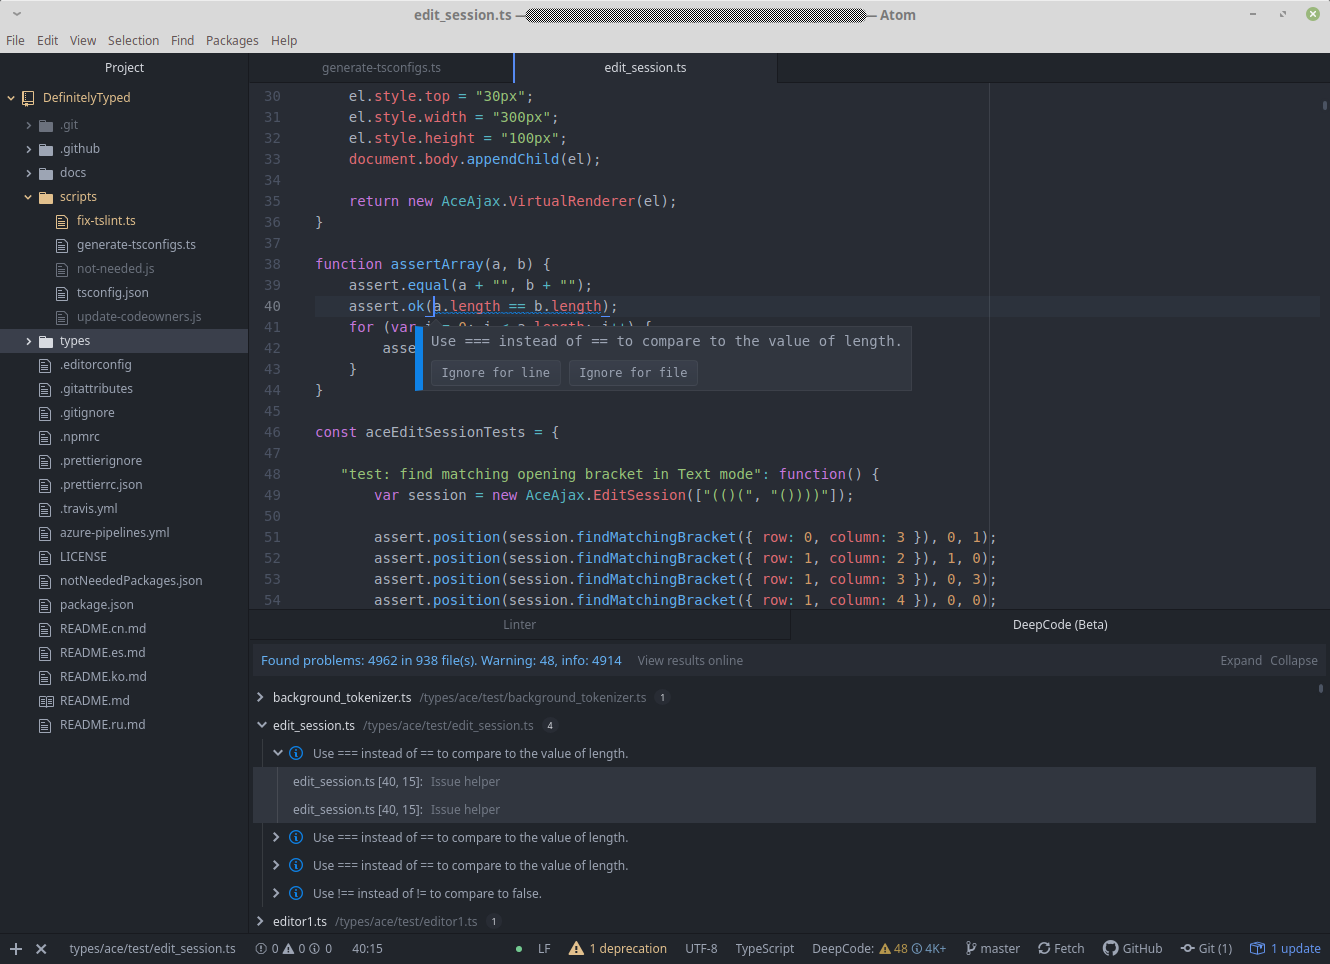
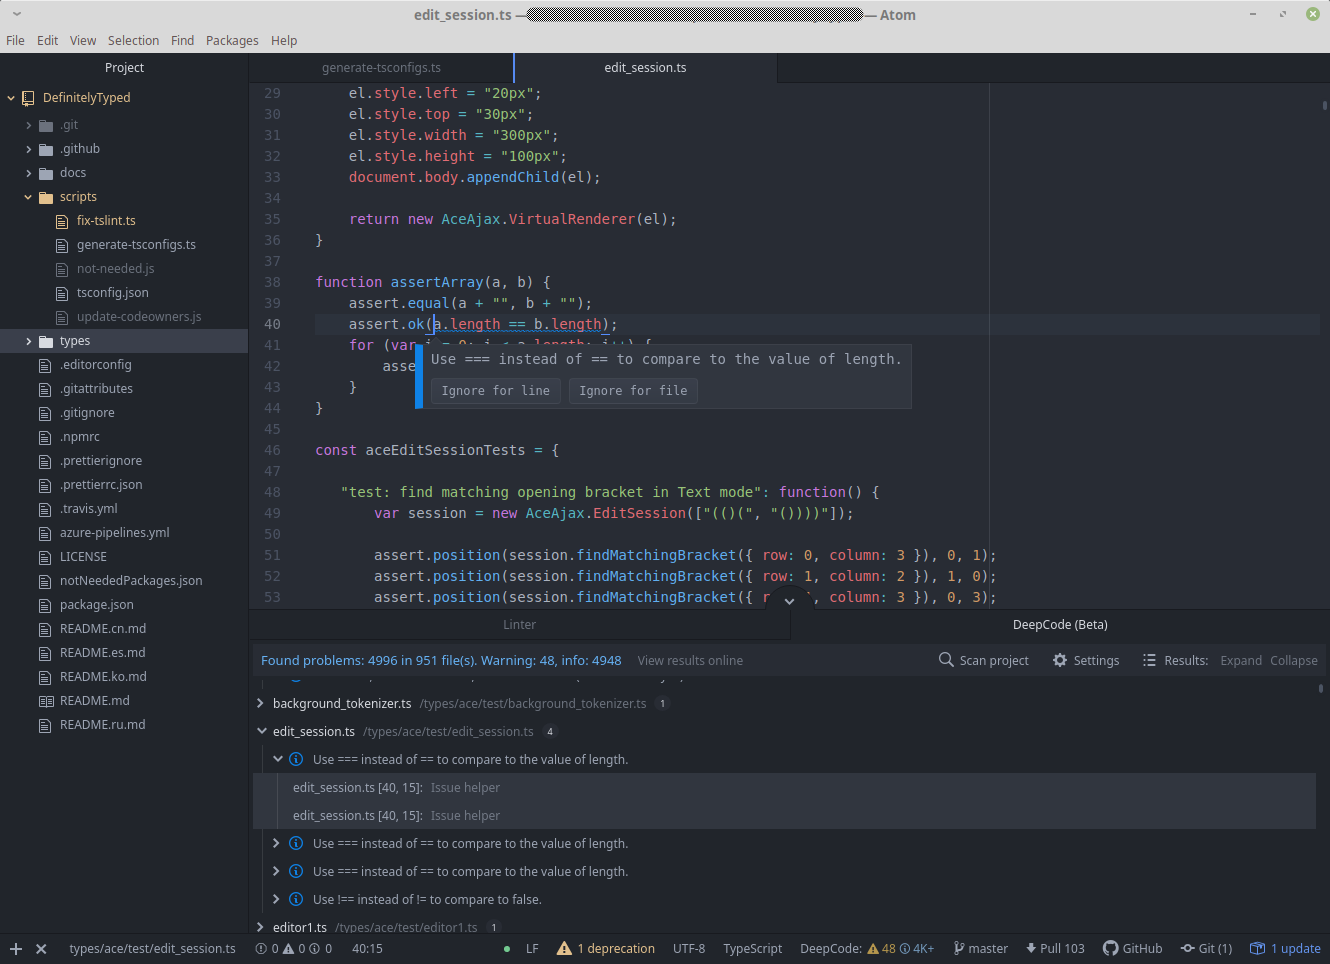
Refactored status-bar and Problem Panel

diff --git a/lib/views/ProblemsPanel.js b/lib/views/ProblemsPanel.js
@@ -10,6 +10,7 @@ import { ProblemsRow } from './ProblemsRow';
 
 import { PLUGIN } from '../constants/common';
 import { STORE_KEYS } from '../constants/store';
+import { PluginManager } from '../modules/PluginManager';
 
 export class ProblemsPanel {
 
@@ -81,18 +82,57 @@ export class ProblemsPanel {
       const right = document.createElement('div');
       right.classList.add('right');
 
-        const linkExpand = document.createElement('a');
-        linkExpand.classList.add('expand');
-        linkExpand.innerText = 'Expand';
-        linkExpand.onclick = () => this.onClickExpandAll();
+        const pluginButtons = document.createElement('div');
+        pluginButtons.classList.add('plugin-buttons');
 
-        const linkCollapse = document.createElement('a');
-        linkCollapse.classList.add('collapse');
-        linkCollapse.innerText = 'Collapse';
-        linkCollapse.onclick = () => this.onClickCollapseAll();
+          const btnScan = document.createElement('div');
+          btnScan.classList.add('pm-btn');
+          btnScan.innerHTML = `
+            <span class="icon icon-search"></span>
+            <span>Scan project</span>
+          `;
+          btnScan.title = 'Re-scan all folders of the project';
+          btnScan.onclick = () => PluginManager.scanProject();
 
-      right.appendChild(linkExpand);
-      right.appendChild(linkCollapse);
+          const btnSettings = document.createElement('div');
+          btnSettings.classList.add('pm-btn');
+          btnSettings.innerHTML = `
+            <span class="icon icon-gear"></span>
+            <span>Settings</span>
+          `;
+          btnSettings.title = 'Open plugin settings';
+          btnSettings.onclick = () => PluginManager.openSettings();
+
+        pluginButtons.appendChild(btnScan);
+        pluginButtons.appendChild(btnSettings);
+
+        const treeSettings = document.createElement('div');
+        treeSettings.classList.add('tree-settings');
+
+          const treeSettingsIcon = document.createElement('div');
+          treeSettingsIcon.classList.add('icon', 'icon-list-unordered');
+
+          const treeSettingsTitle = document.createElement('div');
+          treeSettingsTitle.classList.add('title');
+          treeSettingsTitle.innerText = 'Results:';
+
+          const linkExpand = document.createElement('a');
+          linkExpand.classList.add('expand');
+          linkExpand.innerText = 'Expand';
+          linkExpand.onclick = () => this.onClickExpandAll();
+
+          const linkCollapse = document.createElement('a');
+          linkCollapse.classList.add('collapse');
+          linkCollapse.innerText = 'Collapse';
+          linkCollapse.onclick = () => this.onClickCollapseAll();
+
+        treeSettings.appendChild(treeSettingsIcon);
+        treeSettings.appendChild(treeSettingsTitle);
+        treeSettings.appendChild(linkExpand);
+        treeSettings.appendChild(linkCollapse);
+
+      right.appendChild(pluginButtons);
+      right.appendChild(treeSettings);
 
     tableHead.appendChild(left);
     tableHead.appendChild(right);

diff --git a/lib/views/StatusBarButton.js b/lib/views/StatusBarButton.js
@@ -7,18 +7,17 @@ import { PLUGIN } from '../constants/common';
 import { STORE_KEYS } from '../constants/store';
 import { SEVERITY, SEVERITY_ICONS, SEVERITY_CLASSES } from '../constants/analysis';
 
-import { StatusBarMenu } from './StatusBarMenu';
 import { ScanningProgress } from './ScanningProgress';
 import { UploadProgress } from './UploadProgress';
 import { AnalyzingProgress } from './AnalyzingProgress';
 import { ComposingProgress } from './ComposingProgress';
+import { PluginManager } from '../modules/PluginManager';
 
 export class StatusBarButton {
 
   refs = {
     statusButton: null,
     statusBarTile: null,
-    statusBarMenu: null,
     scanningProgress: null,
     uploadProgress: null,
     analyzingProgress: null,
@@ -27,10 +26,6 @@ export class StatusBarButton {
 
   listeners = {
     statusButton: null,
-  };
-
-  state = {
-    isMenuOpened: false,
   };
 
   init(statusBar) {
@@ -42,7 +37,6 @@ export class StatusBarButton {
       priority: 0,
     });
 
-    this.refs.statusBarMenu = new StatusBarMenu(statusButton, () => this.onHideMenu());
     this.refs.scanningProgress = new ScanningProgress(statusButton);
     this.refs.uploadProgress = new UploadProgress(statusButton);
     this.refs.analyzingProgress = new AnalyzingProgress(statusButton);
@@ -125,18 +119,7 @@ export class StatusBarButton {
   // Callbacks --------------------------------------------------------------------------------------------------------
 
   onClickButton() {
-    if (this.state.isMenuOpened) {
-      this.refs.statusBarMenu.hide();
-      this.state.isMenuOpened = false;
-
-    } else {
-      this.refs.statusBarMenu.show();
-      this.state.isMenuOpened = true;
-    }
-  }
-
-  onHideMenu() {
-    this.state.isMenuOpened = false;
+    PluginManager.openProblemsPanel();
   }
 
   // Store Subscriptions ----------------------------------------------------------------------------------------------

diff --git a/styles/deepcode.less b/styles/deepcode.less
@@ -53,6 +53,12 @@
   }
 }
 
+.ellipsis() {
+  white-space: nowrap;
+  overflow: hidden;
+  text-overflow: ellipsis;
+}
+
 .dc-status {
   a.count {
     margin-left: 2px;
@@ -90,17 +96,20 @@
     align-items: center;
     background-color: @light-background;
     height: 32px;
-    padding: 4px 8px;
+    padding: 0px 8px;
 
     .left {
       display: flex;
       align-items: center;
+      height: 100%;
 
       .title {
+        .ellipsis();
         color: @title-color;
         font-size: 13px;
       }
       .analysis-url {
+        .ellipsis();
         color: @text-color-subtle;
         margin-left: 16px;
         &:hover {
@@ -112,12 +121,51 @@
       display: flex;
       justify-content: flex-end;
       align-items: center;
-      a.collapse,
-      a.expand {
-        color: @text-color-subtle;
-        margin-left: 8px;
-        &:hover {
-          color: @text-color;
+      height: 100%;
+
+      .icon {
+        font-size: 10px;
+      }
+
+      .plugin-buttons {
+        display: flex;
+        justify-content: flex-end;
+        align-items: stretch;
+        height: 100%;
+
+        .pm-btn {
+          .ellipsis();
+          display: flex;
+          justify-content: flex-end;
+          align-items: center;
+          padding: 0px 12px;
+          cursor: pointer;
+          height: 100%;
+
+          &:hover {
+            background-color: @tool-panel-background-color;
+            color: @text-color-highlight;
+          }
+        }
+      }
+
+      .tree-settings {
+        display: flex;
+        justify-content: flex-end;
+        align-items: center;
+        margin-left: 12px;
+
+        .title {
+          .ellipsis();
+          margin-right: 4px;
+        }
+        a.collapse,
+        a.expand {
+          color: @text-color-subtle;
+          margin-left: 8px;
+          &:hover {
+            color: @text-color;
+          }
         }
       }
     }

diff --git a/lib/deepcode.js b/lib/deepcode.js
@@ -57,6 +57,7 @@ export default {
       // Register command that toggles this view
       atom.commands.add('atom-workspace', {
         [COMMANDS.openPanel]: () => PluginManager.openProblemsPanel(),
+        [COMMANDS.resetPlugin]: () => PluginManager.resetPlugin(),
       }),
 
       // Destroy any ProblemsPanel when the package is deactivated
@@ -75,10 +76,7 @@ export default {
 
       // observe config changes: 'sessionToken'
       atom.config.observe(`${PLUGIN.name}.sessionToken`, (sessionToken) => {
-        const accountType = Store.get(STORE_KEYS.accountType);
-        if (sessionToken === '' && accountType !== '') {
-          PluginManager.resetPlugin();
-        }
+        Store.set(STORE_KEYS.sessionToken, sessionToken);
       }),
 
       // observe config changes: 'serviceURL'

diff --git a/lib/config.js b/lib/config.js
@@ -44,7 +44,7 @@ export const config = {
 		type: 'string',
 		default: '',
 		title: 'Session token',
-		description: 'Clear this session token to reset plugin',
+		description: 'Clear this session token to make re-login',
 		order: 6,
 	},
 };

diff --git a/lib/constants/commands.js b/lib/constants/commands.js
@@ -1,6 +1,6 @@
 'use babel';
 
 export const COMMANDS = {
-  start: 'deepcode:start-analysis',
   openPanel: 'deepcode:open-problems-panel',
+  resetPlugin: 'deepcode:reset-plugin',
 };

diff --git a/README.md b/README.md
@@ -28,31 +28,3 @@ DeepCode extension analyses code on saving files:
 Inspect all found issues using "Problems" tab and syntax highlight:
 
 ![deepcode problem](images/problem.png)
-
-# Available commands from status bar button
-
-### Open panel
-
-Opens panel with list of problems and makes request for checking analysis status.
-If there is no created bundle and changed files are present, it starts creating bundle process.
-
-### Scan project
-
-Makes full re-scan of project and marks all files as changed,
-so they will be uploaded to server and analyzed.
-
-This command always creates a new bundle.
-
-### Settings
-
-Opens settings view for package.
-
-### Reset plugin
-
-Removes all stored info about plugin: login, project data. It behaves like you install the plugin
-at first time: you will be asked for login, confirmation folders and so on.
-
-Can be useful for development purposes or for changing settings.
-
-> Please, note that this command doesn't reset any global package settings that are available
-> on settings view (menu "Packages" -> "Settings view" -> "Manage packages" -> "DeepCode"). 

diff --git a/docs/development.md b/docs/development.md
@@ -26,10 +26,23 @@ After that you can open any project in Atom and use package `DeepCode`.
 > presented in the "Packages" menu.
 > 
 >To see the plugin in the "Packages" menu and start it you have to reload
-> Atom window (you can use hotkey Ctrl + Alt + F5)
+> Atom window via menu command `View` -> `Developer` -> `Reload Window`
+> (you can also use hotkey `Ctrl` + `Alt` + `F5`)
 
-To remove plugin type:
+To remove plugin just type:
 ```shell script
 $ cd atom-plugin
 $ apm unlink
 ```
+
+During development you may want to reset the whole plugin. It is available via command
+`deepcode:reset-plugin`.
+
+In order to use this command open command panel in Atom (`Ctrl` + `Shift` + `P`) and find
+command titled as `Deepcode: Reset Plugin`.
+
+##Testing
+
+In order to run tests open plugin folder in `Atom` and use menu command
+`View` -> `Developer` -> `Run Package Specs`
+or just press `Ctrl` + `Shift` + `Y`.
